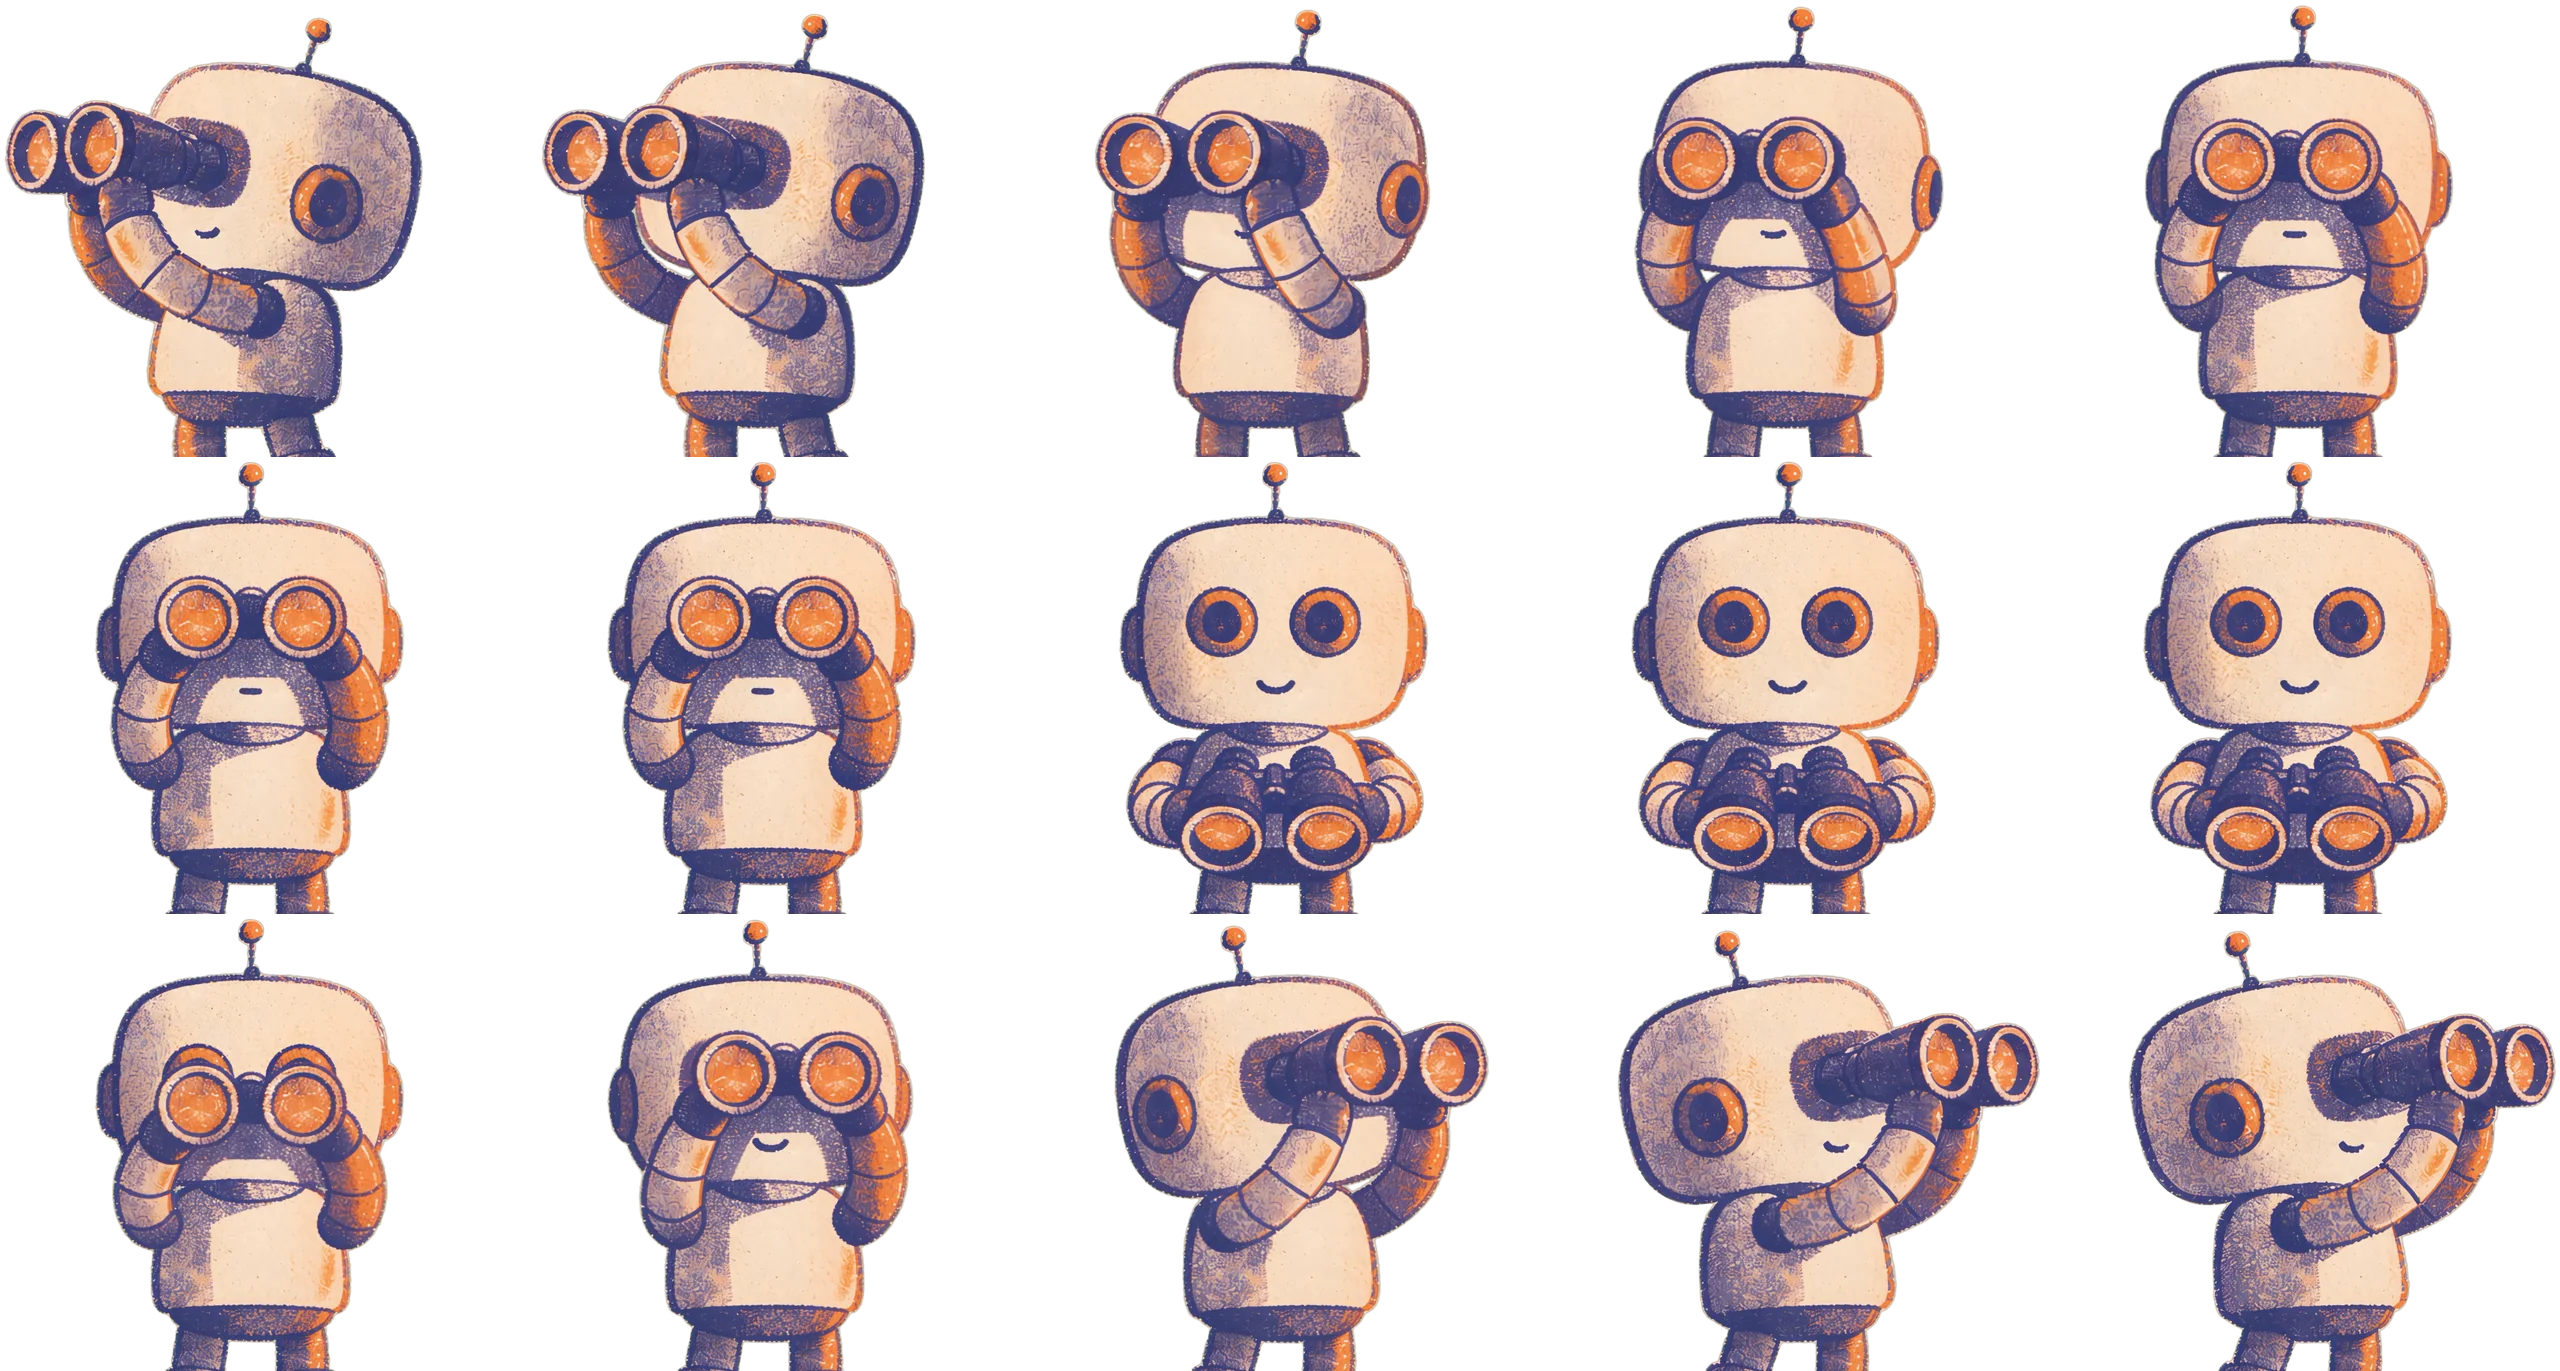
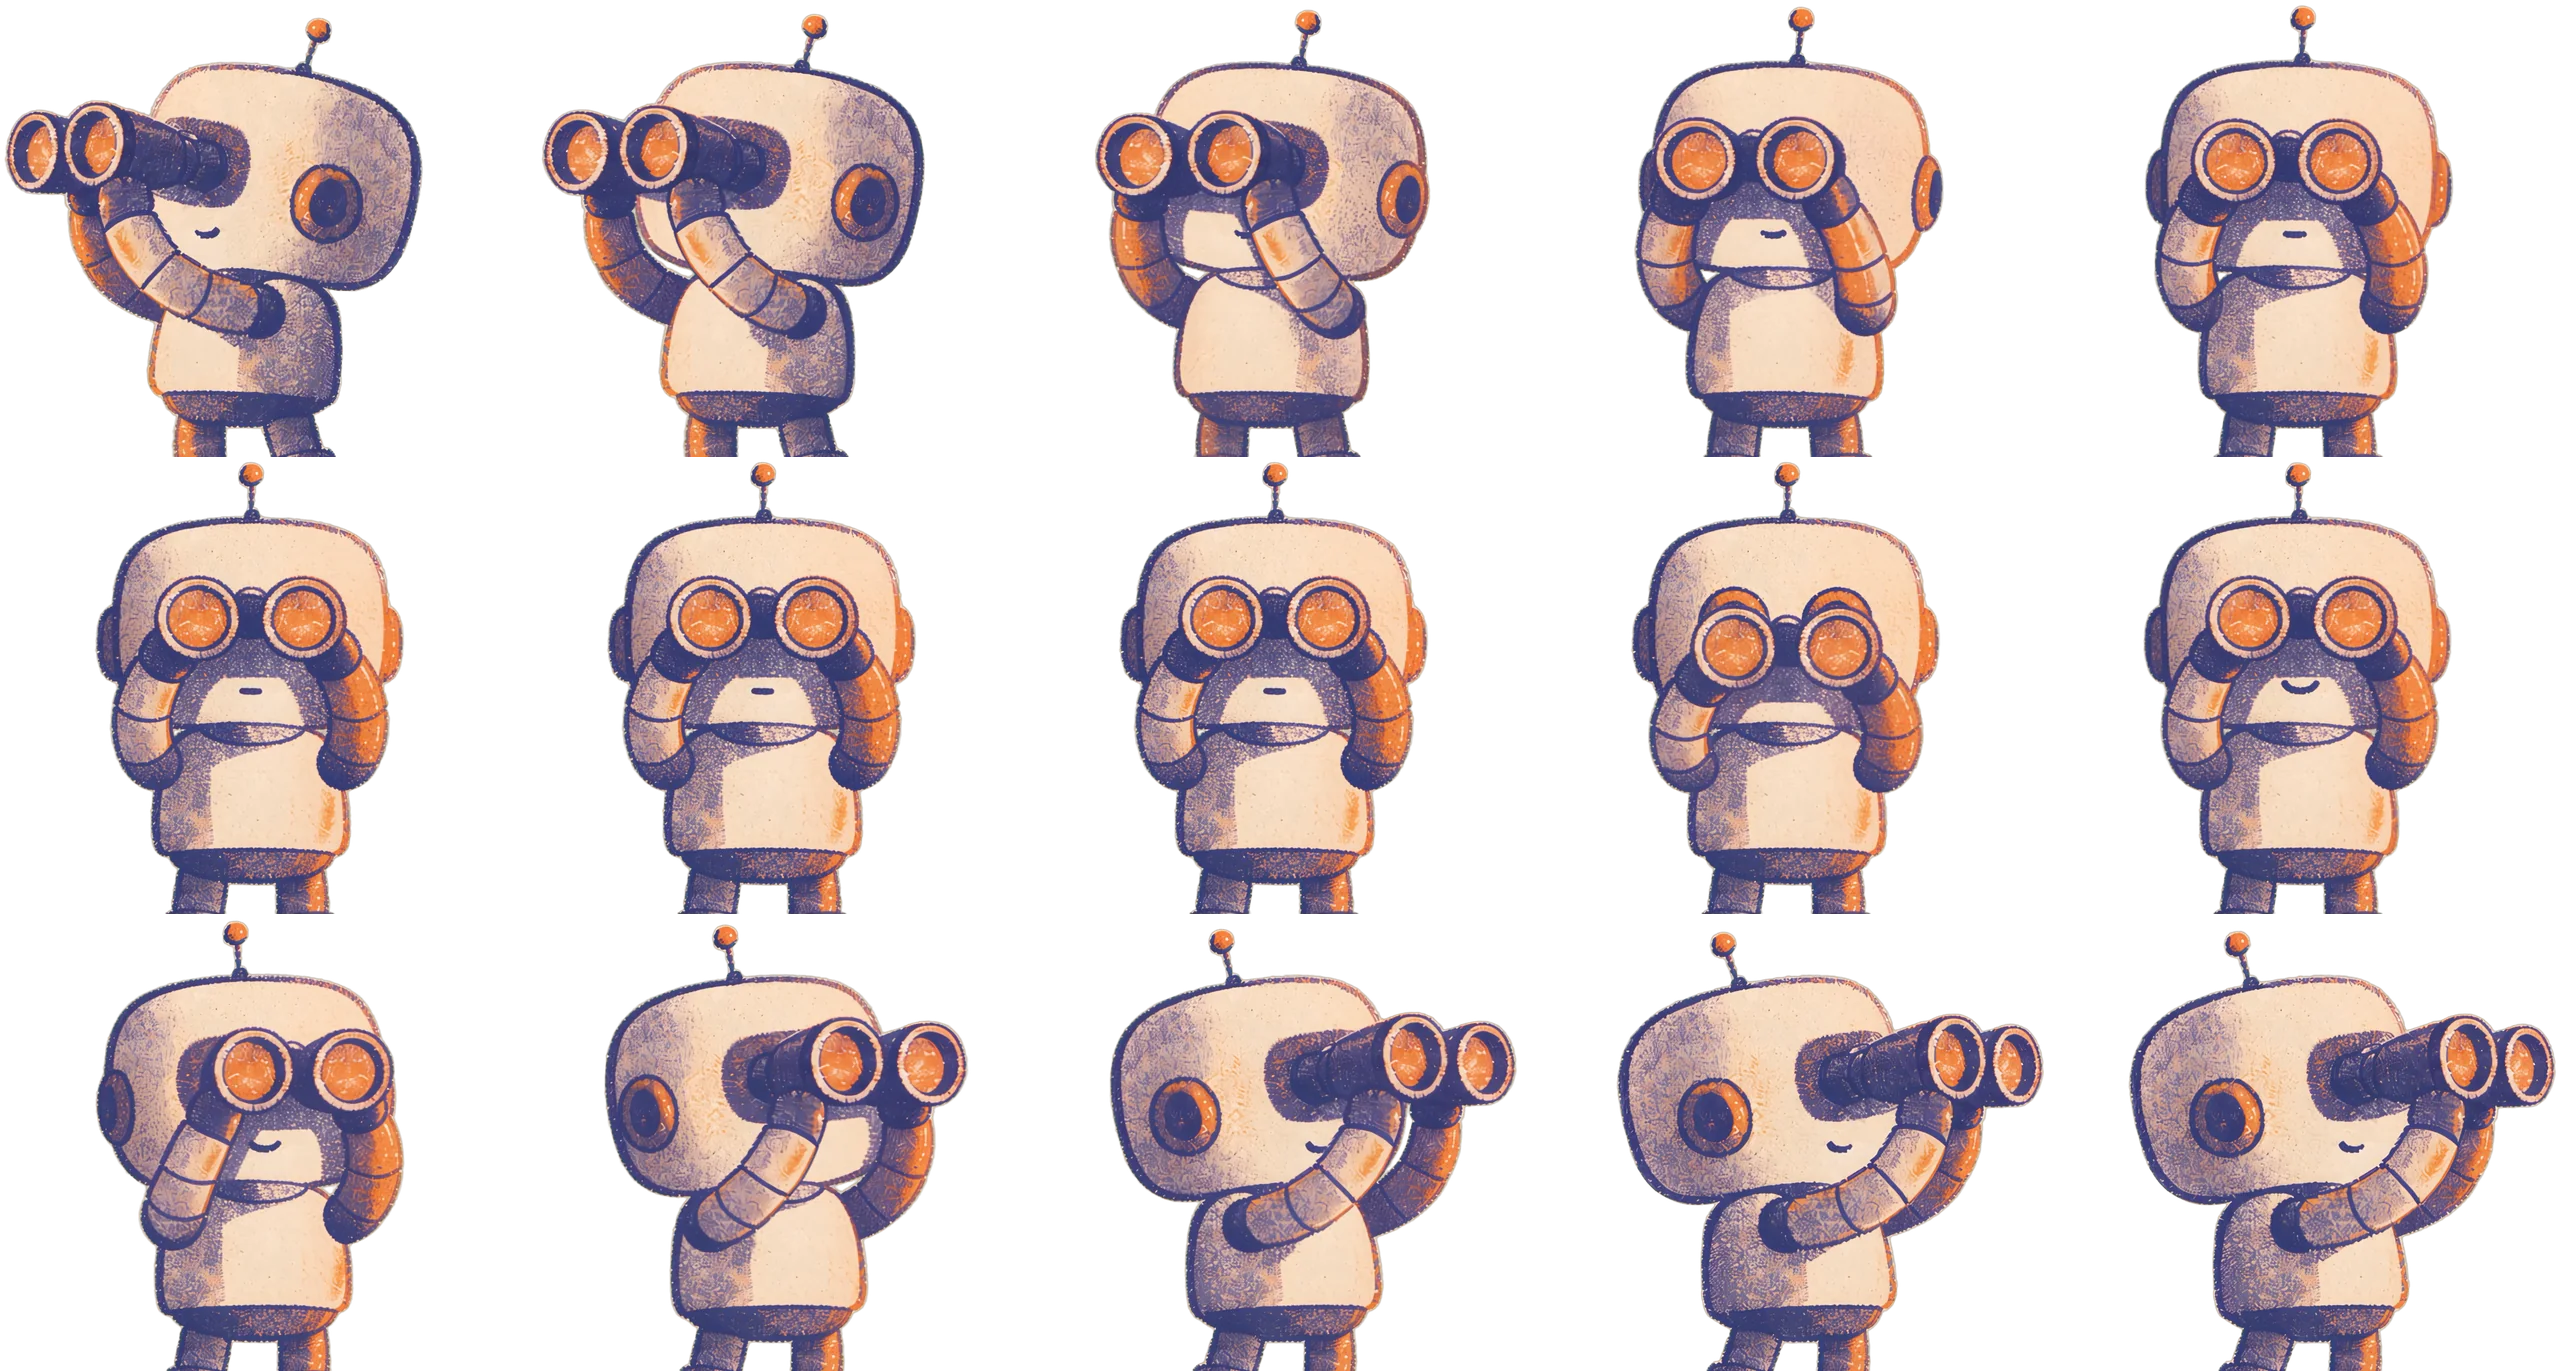
scene: he scans, he doesn't stare — and the sweep is robot-relative
Cut the bare-eye frames from the atlas (binoculars never leave his eyes).
Remap cursor->sweep relative to where he stands (~20% of viewport): the
right-aim half covers everything from him to the right edge, where cursors
actually live.

diff --git a/public/app.js b/public/app.js
@@ -430,9 +430,11 @@ bindCopy("copy-prompt", "agent-prompt", "copy prompt");
 bindCopy("copy-fix", "fix-prompt", "copy fix prompt");
 
 // the scout really turns to follow your cursor — a sprite atlas of turn frames
-// (the gazeportrait technique): cursor x → smoothed sweep position → atlas
-// frame. Far left he aims left, center he lowers the binoculars and looks at
-// you, far right he aims right. Static sprite stays for no-JS / reduced-motion.
+// (the gazeportrait technique): cursor position → smoothed sweep position →
+// atlas frame. The binoculars never leave his eyes: he scans, he doesn't stare.
+// Mapping is robot-relative — he stands at ~20% of the viewport, so the
+// right-aim half of the sweep covers everything from him to the right edge.
+// Static sprite stays for no-JS / reduced-motion.
 (() => {
   const wrap = $("scene-robot");
   if (!wrap) return;
@@ -466,7 +468,12 @@ bindCopy("copy-fix", "fix-prompt", "copy fix prompt");
     requestAnimationFrame(tick);
   };
   addEventListener("pointermove", (e) => {
-    mouse = e.clientX / innerWidth;
+    const r = wrap.getBoundingClientRect();
+    const rx = (r.left + r.width * 0.5) / innerWidth;
+    const x = e.clientX / innerWidth;
+    mouse = x >= rx
+      ? 0.5 + ((x - rx) / Math.max(0.05, 1 - rx)) * 0.5
+      : (x / Math.max(0.05, rx)) * 0.5;
     if (!live && ready) start(); // first move brings him alive — masks the pose swap
   }, { passive: true });
   addEventListener("pointerleave", () => { mouse = REST; }, { passive: true });
